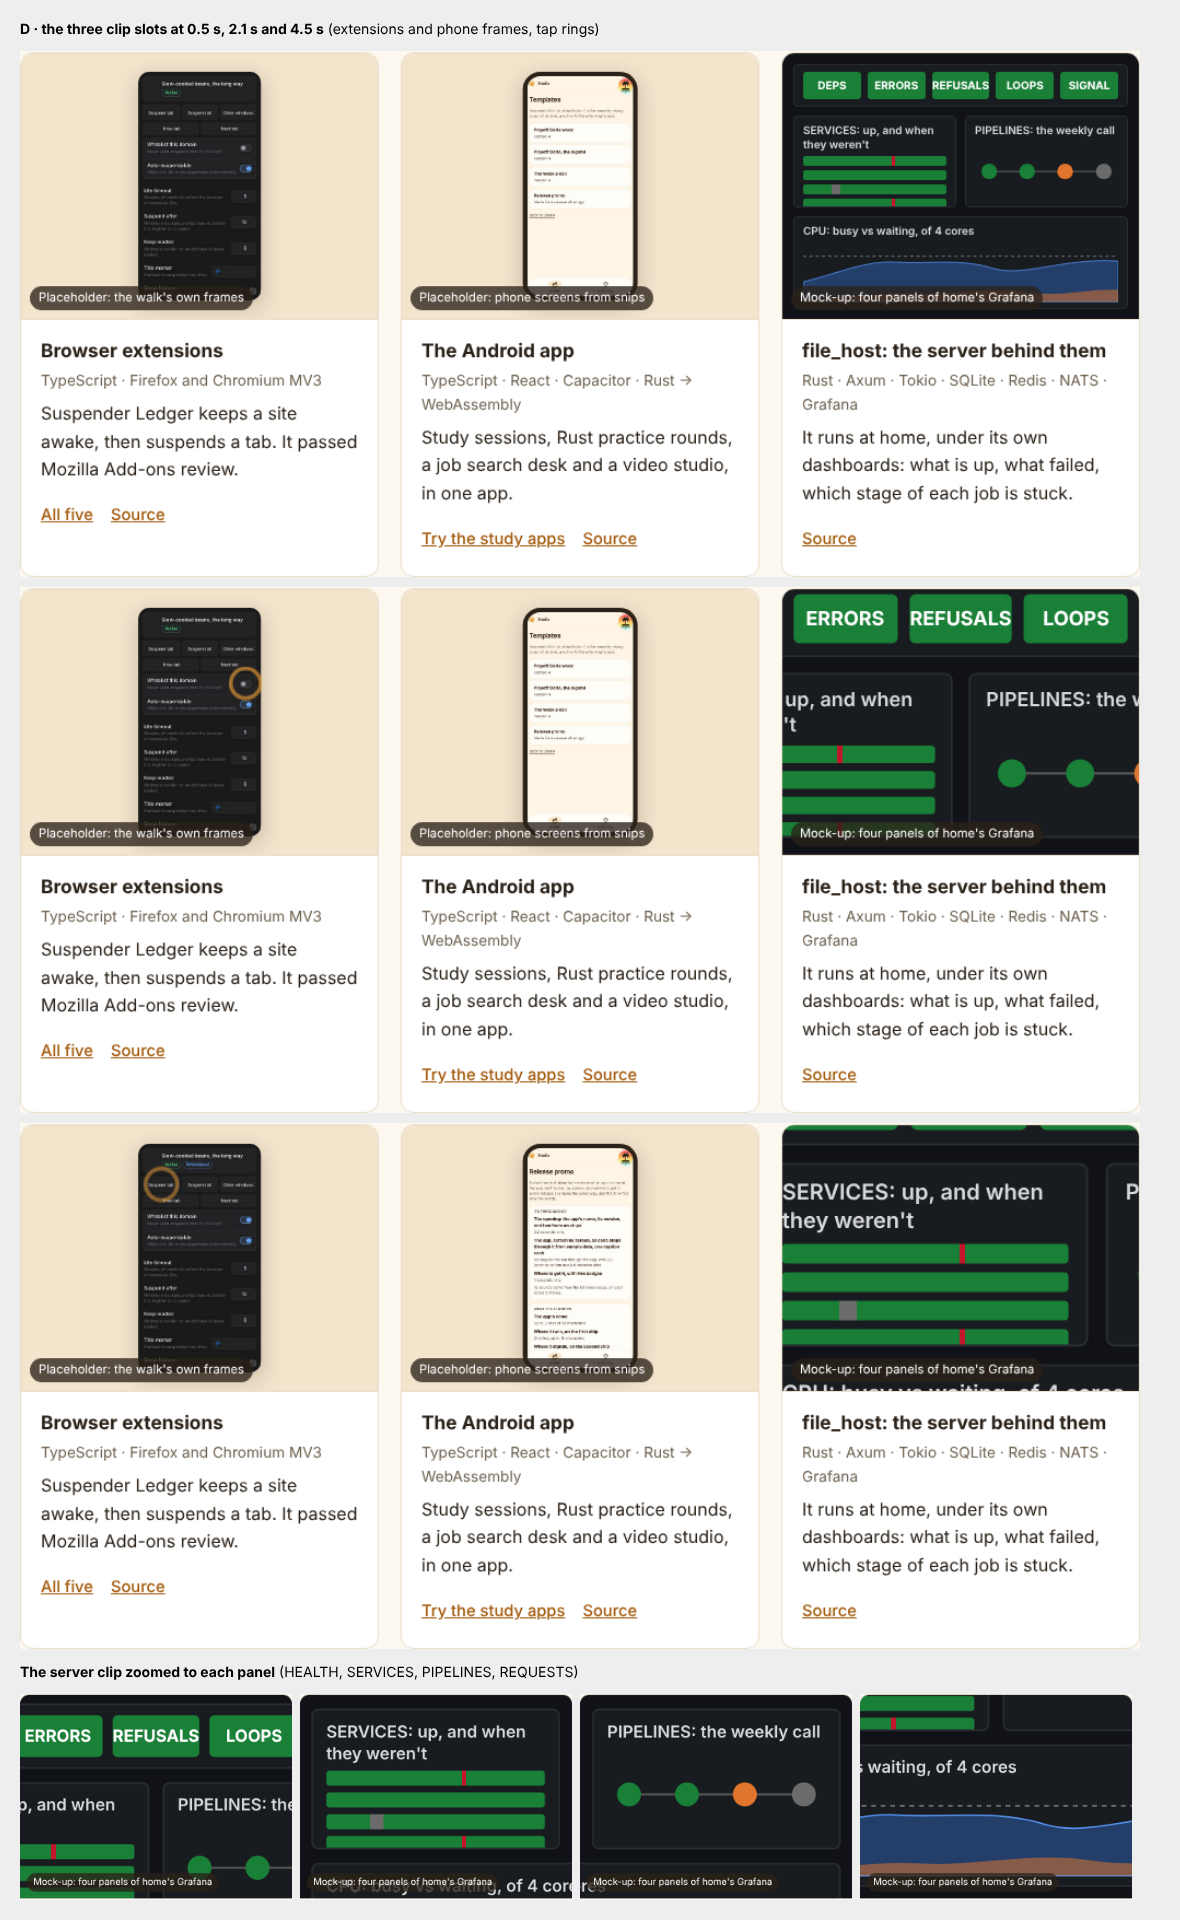
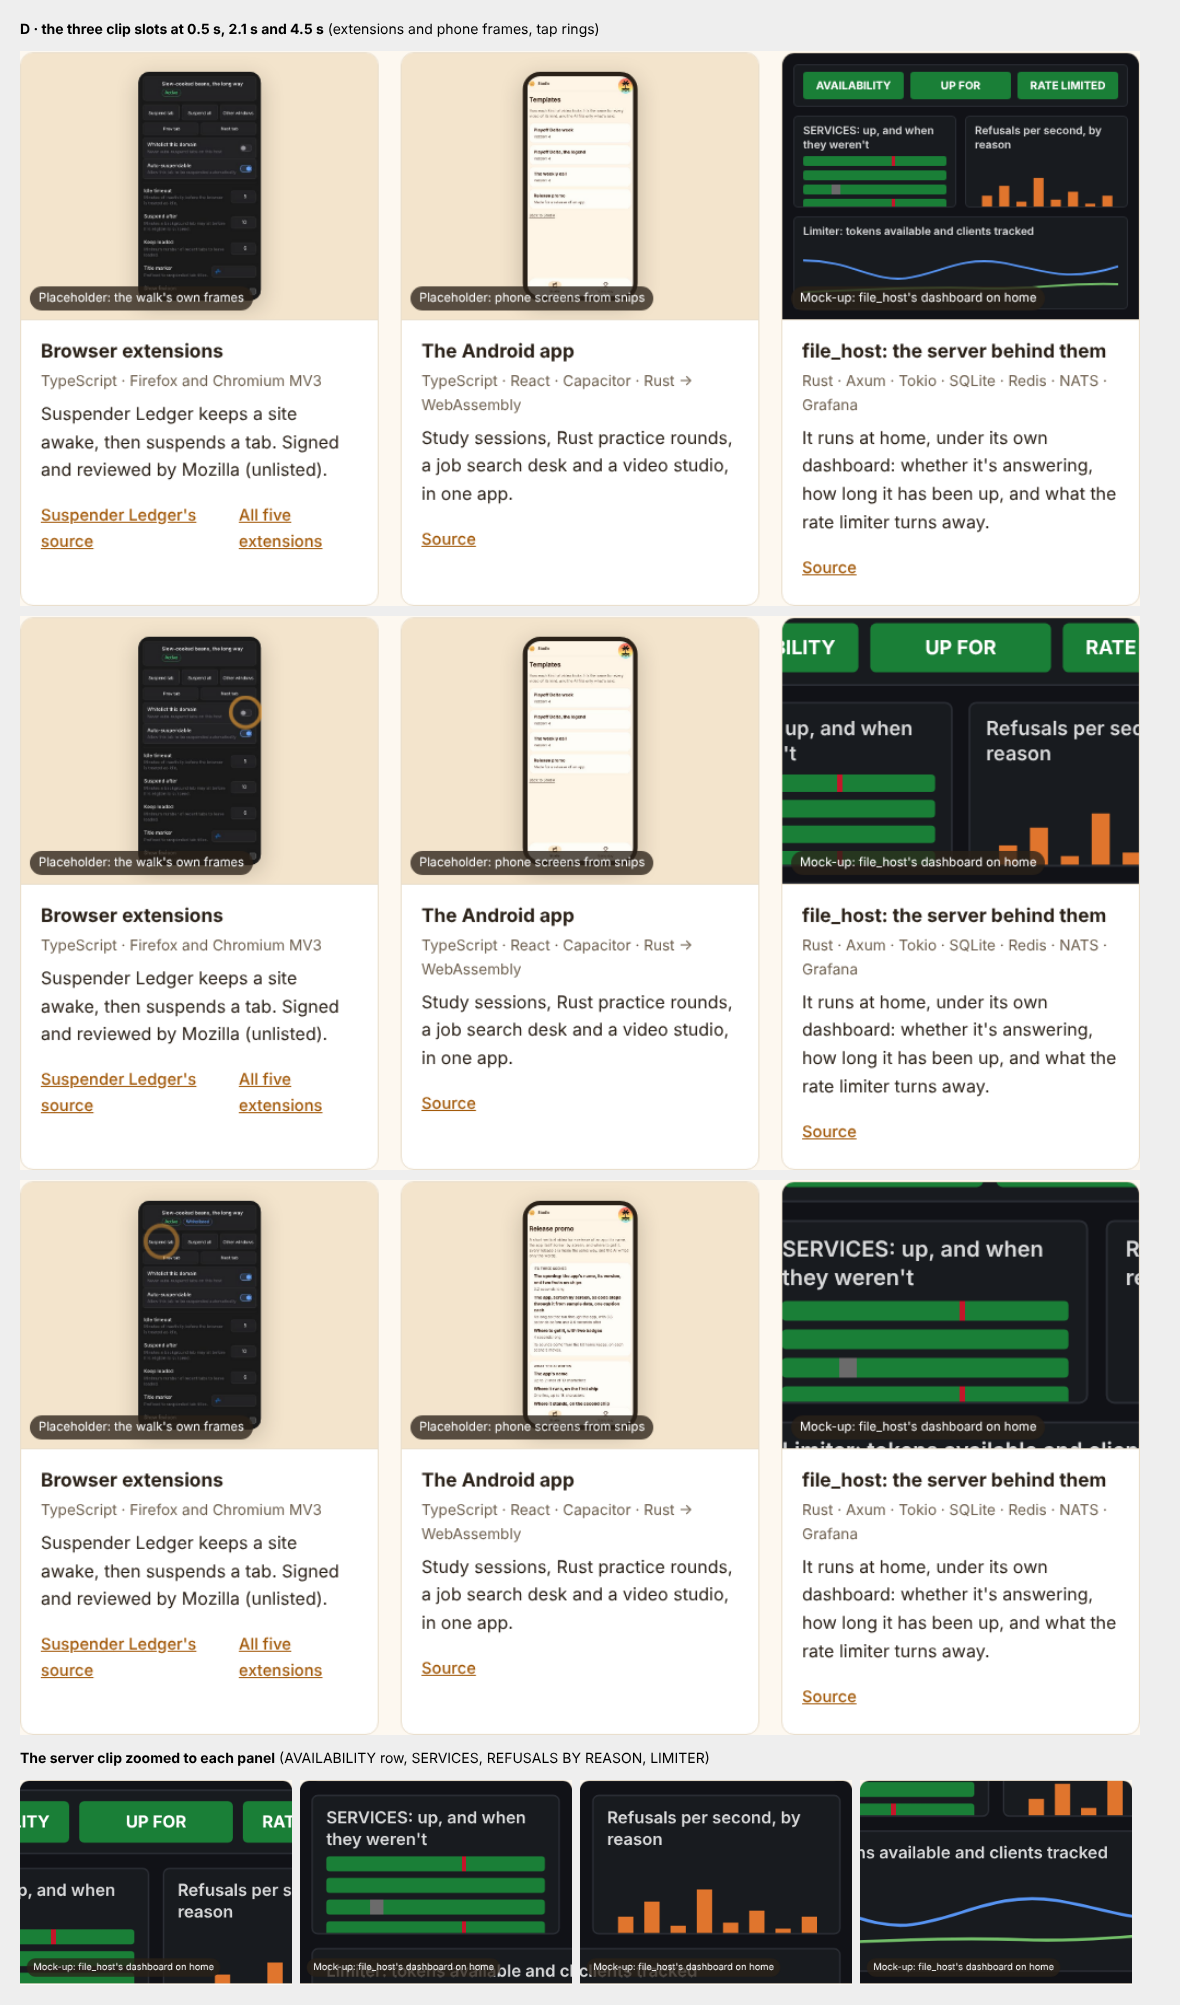
docs(pages): the unlisted extension, and file_host's own dashboard for the server clip
The extensions card says "Signed and reviewed by Mozilla (unlisted)" and
links to source (no release carries the .xpi). The server mock shows
file_host's own panels: availability, up for, rate limited, services up,
refusals by reason, and the limiter. Links to routes the prune removes
(/extensions, /app) are gone.

Change-Kind: story
Claude-Session: https://claude.ai/code/session_01LDpdUKuUEcbzJQfrAA4h6D

diff --git a/prototypes/pages/d-show/index.html b/prototypes/pages/d-show/index.html
@@ -386,7 +386,7 @@
         32% {
           transform: scale(2);
           transform-origin: 50% 4%;
-        } /* HEALTH */
+        } /* AVAILABILITY, UP FOR, RATE LIMITED */
         40%,
         52% {
           transform: scale(2);
@@ -396,12 +396,12 @@
         72% {
           transform: scale(2);
           transform-origin: 98% 40%;
-        } /* PIPELINES */
+        } /* REFUSALS BY REASON */
         80%,
         92% {
           transform: scale(2);
           transform-origin: 50% 98%;
-        } /* REQUESTS */
+        } /* LIMITER */
         100% {
           transform: scale(1);
           transform-origin: 50% 50%;
@@ -637,15 +637,16 @@
             <h3>Browser extensions</h3>
             <p class="stack">TypeScript · Firefox and Chromium MV3</p>
             <p>
-              Suspender Ledger keeps a site awake, then suspends a tab. It
-              passed Mozilla Add-ons review.
+              Suspender Ledger keeps a site awake, then suspends a tab. Signed
+              and reviewed by Mozilla (unlisted).
             </p>
             <p class="links">
-              <a href="https://paulgsc.github.io/some-ui/extensions"
-                >All five</a
+              <a
+                href="https://github.com/paulgsc/some-ui/tree/main/extensions/suspender-ledger"
+                >Suspender Ledger's source</a
               >
               <a href="https://github.com/paulgsc/some-ui/tree/main/extensions"
-                >Source</a
+                >All five extensions</a
               >
             </p>
           </div>
@@ -670,9 +671,6 @@
               video studio, in one app.
             </p>
             <p class="links">
-              <a href="https://paulgsc.github.io/some-ui/app"
-                >Try the study apps</a
-              >
               <a href="https://github.com/paulgsc/some-ui/tree/main/apps/mobile"
                 >Source</a
               >
@@ -684,40 +682,45 @@
           <figure class="clip" data-slot="clip" data-asset="clips/server.mp4">
             <div class="dash" aria-hidden="true">
               <div class="panel verdicts">
-                <span>DEPS</span><span>ERRORS</span><span>REFUSALS</span
-                ><span>LOOPS</span><span>SIGNAL</span>
+                <span>AVAILABILITY</span><span>UP FOR</span
+                ><span>RATE LIMITED</span>
               </div>
               <div class="panel rows">
                 <b>SERVICES: up, and when they weren't</b><i></i><i></i><i></i
                 ><i></i>
               </div>
               <div class="panel graph">
-                <b>PIPELINES: the weekly call</b>
-                <svg viewBox="0 0 200 60">
-                  <path d="M20 30 H180" stroke="#555" stroke-width="2" />
-                  <circle cx="20" cy="30" r="11" fill="#1a7f37" />
-                  <circle cx="73" cy="30" r="11" fill="#1a7f37" />
-                  <circle cx="126" cy="30" r="11" fill="#e0752d" />
-                  <circle cx="180" cy="30" r="11" fill="#6b6b6b" />
+                <b>Refusals per second, by reason</b>
+                <svg viewBox="0 0 200 60" preserveAspectRatio="none">
+                  <rect x="10" y="40" width="14" height="18" fill="#e0752d" />
+                  <rect x="34" y="30" width="14" height="28" fill="#e0752d" />
+                  <rect x="58" y="46" width="14" height="12" fill="#e0752d" />
+                  <rect x="82" y="22" width="14" height="36" fill="#e0752d" />
+                  <rect x="106" y="44" width="14" height="14" fill="#e0752d" />
+                  <rect x="130" y="36" width="14" height="22" fill="#e0752d" />
+                  <rect x="154" y="48" width="14" height="10" fill="#e0752d" />
+                  <rect x="178" y="40" width="14" height="18" fill="#e0752d" />
                 </svg>
               </div>
               <div class="panel area" style="grid-column: 1 / -1">
-                <b>CPU: busy vs waiting, of 4 cores</b>
+                <b>Limiter: tokens available and clients tracked</b>
                 <svg viewBox="0 0 400 60" preserveAspectRatio="none">
-                  <path d="M0 14 H400" stroke="#888" stroke-dasharray="4 4" />
                   <path
-                    d="M0 40 C50 30 80 18 120 20 S200 16 240 26 S330 15 400 19 V60 H0Z"
-                    fill="#3274d966"
+                    d="M0 18 C60 18 90 40 130 36 S200 14 250 20 S330 42 400 24"
+                    fill="none"
                     stroke="#5794f2"
+                    stroke-width="2"
                   />
                   <path
-                    d="M0 58 C60 56 100 50 140 52 S230 44 280 50 S360 46 400 48 V60 H0Z"
-                    fill="#e0752d88"
+                    d="M0 50 C80 48 150 44 220 46 S330 40 400 42"
+                    fill="none"
+                    stroke="#73bf69"
+                    stroke-width="2"
                   />
                 </svg>
               </div>
             </div>
-            <span class="tag">Mock-up: four panels of home's Grafana</span>
+            <span class="tag">Mock-up: file_host's dashboard on home</span>
           </figure>
           <div class="body">
             <h3>file_host: the server behind them</h3>
@@ -725,8 +728,8 @@
               Rust · Axum · Tokio · SQLite · Redis · NATS · Grafana
             </p>
             <p>
-              It runs at home, under its own dashboards: what is up, what
-              failed, which stage of each job is stuck.
+              It runs at home, under its own dashboard: whether it's answering,
+              how long it has been up, and what the rate limiter turns away.
             </p>
             <p class="links">
               <a href="https://github.com/paulgsc/server">Source</a>

diff --git a/prototypes/pages/README.md b/prototypes/pages/README.md
@@ -494,3 +494,33 @@ coordinator, not part of C1055, which covers Pages only.
 
 Still waiting on the owner: which process the PIPELINES panel shows, and Suspender Ledger's
 AMO listing URL.
+
+## Round 5: Suspender Ledger's channel, and file_host's own dashboard
+
+- **Suspender Ledger has no public listing.** It is signed on AMO's unlisted channel (its
+  README, "Signing for Firefox (private unlisted)"), and unlisted builds are still reviewed. Its
+  card says "Signed and reviewed by Mozilla (unlisted)" and links to its source and to all five
+  extensions' source. No GitHub release carries the signed `.xpi`: `extension-release.yml`
+  submits it to AMO only. So there is no download link. The card's link to the `/extensions`
+  route and the Android card's "Try the study apps" (`/app`) are gone, since both routes leave
+  Pages in the prune.
+- **The server clip uses file_host's own dashboard** (`🩺 file_host`,
+  `infra/grafana/dashboards/dashboard.jsonnet` in paulgsc/server at `3d3739d`). These panels
+  need no explanation:
+
+  1. **AVAILABILITY** (golden signals, `lib/overview-panels.libsonnet`): the share of requests
+     answered, which is the SLA.
+  2. **UP FOR** (same row): time since the running file_host started. Beside it, **RESTARTS**,
+     if a fifth tile is wanted.
+  3. **SERVICES — up, and when they weren't** (`lib/overview-panels.libsonnet`): each
+     service's uptime as a state timeline.
+  4. **Refusals/sec by Reason** (the "Rate limiting & refusals" row,
+     `lib/abuse-panels.libsonnet`): what the limiter, load shedding and timeouts turn away.
+  5. **Limiter: Tokens Available & Tracked Clients** (same row): the rate limiter at work.
+
+  The mock's top row shows AVAILABILITY, UP FOR and RATE LIMITED (the row's stat tile). The
+  pipelines no longer lead. The cores gap card keeps WHO DUNNIT's "CPU — busy vs waiting, of 4
+  cores". None of these panels carries personal data: the reasons and stages are code labels,
+  and tracked clients is a count, not a list.
+
+- **Waits on the owner: nothing.**
